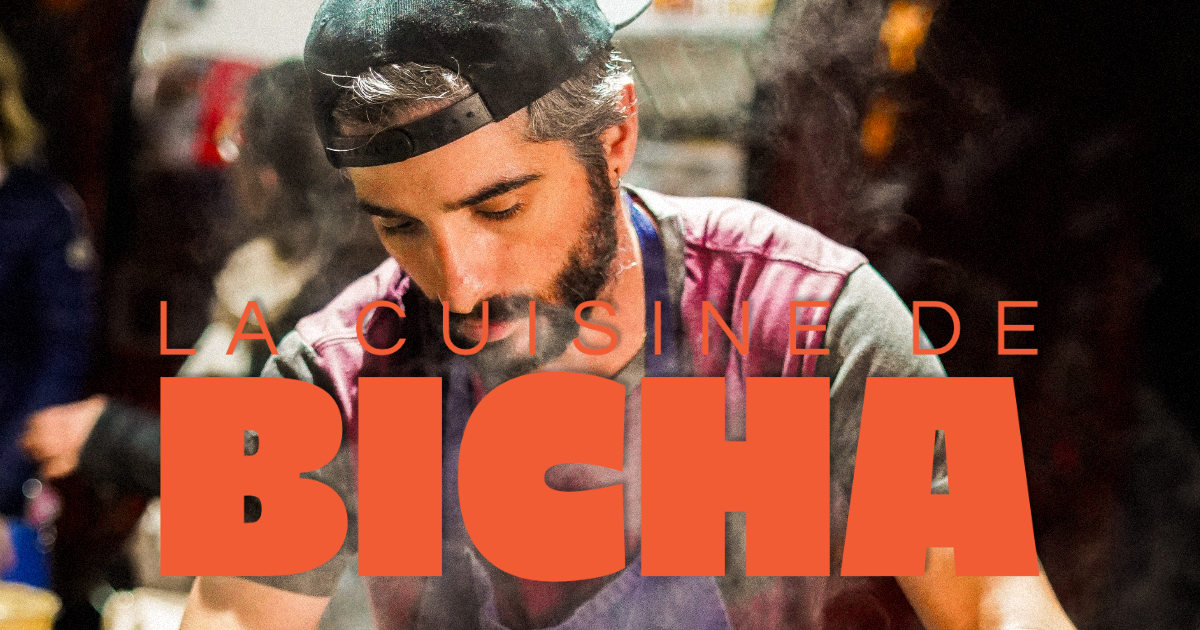
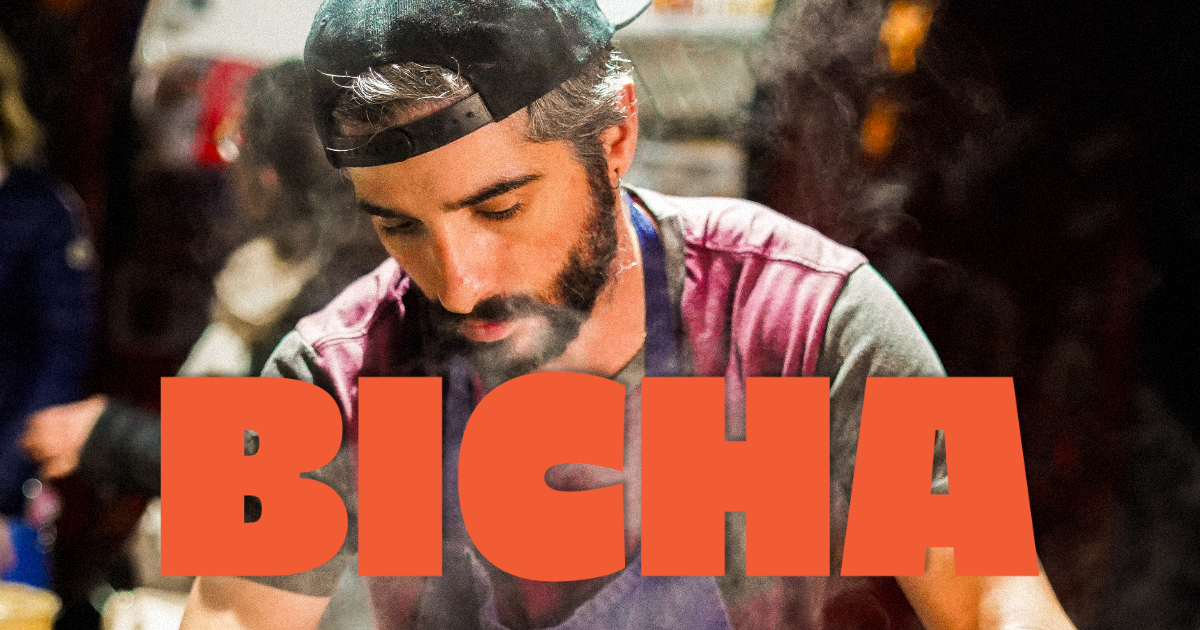
Add thanks page, convert images to WebP, update form config
- Add src/thanks.html confirmation page after form submission
- Update _next field to redirect to /thanks.html
- Update form action to [email redacted]
- Add _template hidden field for formsubmit box layout
- Convert photo1/photo2 to WebP, move slideshow photos to slideshow/ subdir
- Update image paths in index.html accordingly
- Remove Google Fonts preconnect links (fonts are self-hosted)
- New ogimage.png and bicha.png assets

diff --git a/src/styles/thanks.css b/src/styles/thanks.css
@@ -1,0 +1,52 @@
+.thanks-page {
+    min-height: 100svh;
+    display: flex;
+    flex-direction: column;
+    align-items: center;
+    justify-content: center;
+    padding: 48px 24px;
+    text-align: center;
+}
+
+.thanks-logo {
+    width: 120px;
+    margin-bottom: 48px;
+}
+
+.thanks-check {
+    width: 64px;
+    height: 64px;
+    border-radius: 50%;
+    background: var(--color-accent);
+    display: flex;
+    align-items: center;
+    justify-content: center;
+    margin: 0 auto 32px;
+}
+
+.thanks-check svg {
+    stroke: var(--color-white);
+}
+
+.thanks-title {
+    font-family: 'GrandBold', serif;
+    font-size: clamp(2.4rem, 6vw, 4rem);
+    color: var(--color-dark);
+    line-height: 1.1;
+    margin-bottom: 16px;
+    text-transform: none;
+    font-weight: normal;
+    letter-spacing: -0.5px;
+    text-align: center;
+}
+
+.thanks-sub {
+    font-family: 'HankenGrotesk', sans-serif;
+    font-size: clamp(1rem, 2.5vw, 1.15rem);
+    color: var(--color-dark);
+    opacity: 0.7;
+    max-width: 380px;
+    margin: 0 auto 40px;
+    line-height: 1.6;
+    text-align: center;
+}

diff --git a/src/thanks.html b/src/thanks.html
@@ -1,0 +1,31 @@
+<!DOCTYPE html>
+<html lang="fr">
+<head>
+    <meta charset="UTF-8">
+    <meta name="viewport" content="width=device-width, initial-scale=1.0">
+    <title>Merci — La Cuisine de Bicha</title>
+    <meta name="robots" content="noindex, nofollow">
+    <link rel="apple-touch-icon" sizes="180x180" href="media/favicon/apple-touch-icon.png">
+    <link rel="icon" type="image/png" sizes="32x32" href="media/favicon/favicon-32x32.png">
+    <link rel="icon" type="image/png" sizes="16x16" href="media/favicon/favicon-16x16.png">
+    <link rel="manifest" href="media/favicon/site.webmanifest">
+    <link rel="stylesheet" href="style.css">
+    <link rel="stylesheet" href="styles/thanks.css">
+</head>
+<body>
+    <div class="thanks-page">
+        <!-- <img class="thanks-logo" src="media/bicha.png" alt="La Cuisine de Bicha"> -->
+
+        <div class="thanks-check" aria-hidden="true">
+            <svg width="28" height="28" viewBox="0 0 24 24" fill="none" stroke-width="2.5" stroke-linecap="round" stroke-linejoin="round">
+                <polyline points="20 6 9 17 4 12"/>
+            </svg>
+        </div>
+
+        <p class="thanks-title">Votre demande<br>a bien été envoyée.</p>
+        <p class="thanks-sub">Je reviens vers vous rapidement avec un devis personnalisé. À très vite !</p>
+
+        <a class="btn" href="index.html">← Retour au site</a>
+    </div>
+</body>
+</html>

diff --git a/src/index.html b/src/index.html
@@ -11,8 +11,6 @@
     <meta property="og:type" content="website">
     <meta name="robots" content="noai, notdm">
     <meta name="tdm-policy" content="contact=mailto:[email redacted]; terms=https://www.lacuisinedebicha.fr/terms.html">
-    <link rel="preconnect" href="https://fonts.googleapis.com">
-    <link rel="preconnect" href="https://fonts.gstatic.com" crossorigin>
     <link rel="apple-touch-icon" sizes="180x180" href="media/favicon/apple-touch-icon.png">
     <link rel="icon" type="image/png" sizes="32x32" href="media/favicon/favicon-32x32.png">
     <link rel="icon" type="image/png" sizes="16x16" href="media/favicon/favicon-16x16.png">
@@ -71,7 +69,7 @@
         <!-- Block: Histoire -->
         <section class="block">
             <div class="sub_block_img_container reveal reveal--left">
-                <img class="sub_block_img" src="./media/photo1.jpg" alt="Plat cuisiné par La Cuisine de Bicha" loading="lazy">
+                <img class="sub_block_img" src="./media/photo1.webp" alt="Plat cuisiné par La Cuisine de Bicha" loading="lazy">
             </div>
             <div class="sub_block reveal reveal--delay-2">
                 <h2>Bicha, une histoire de cuisine, de famille et de convivialité</h2>
@@ -89,7 +87,7 @@
         <!-- Block: Prestations -->
         <section class="block">
             <div class="sub_block_img_container reveal reveal--right">
-                <img class="sub_block_img" src="./media/photo2.jpg" alt="Cuisine sur place pour événements par Bicha" loading="lazy">
+                <img class="sub_block_img" src="./media/photo2.webp" alt="Cuisine sur place pour événements par Bicha" loading="lazy">
             </div>
             <div class="sub_block reveal reveal--delay-2">
                 <h2>Une cuisine conviviale pour tous vos évènements</h2>
@@ -119,7 +117,7 @@
                 </div>
             </div>
             <div class="menu-embed">
-                <iframe loading="lazy" class="iframe"
+                <iframe loading="lazy" class="iframe" name="menu proposé à jour" 
                     src="https://www.canva.com/design/DAHHAqNiRKQ/JV84XNiVcMZHoF93Mbj5SA/view?embed" allowfullscreen="allowfullscreen" allow="fullscreen">
                 </iframe>
             </div>
@@ -135,12 +133,12 @@
                 </button>
                 <div class="embla">
                     <div class="embla__container">
-                        <div class="embla__slide"><img src="./media/photo1-slideshow.jpg" alt="Réalisation La Cuisine de Bicha" loading="lazy"></div>
-                        <div class="embla__slide"><img src="./media/photo2-slideshow.jpg" alt="Cuisine conviviale pour un événement" loading="lazy"></div>
-                        <div class="embla__slide"><img src="./media/photo3-slideshow.jpg" alt="Préparation maison en grande poêle" loading="lazy"></div>
-                        <div class="embla__slide"><img src="./media/photo4-slideshow.jpg" alt="Service traiteur Bicha sur place" loading="lazy"></div>
-                        <div class="embla__slide"><img src="./media/photo5-slideshow.jpg" alt="Repas convivial pour vos invités" loading="lazy"></div>
-                        <div class="embla__slide"><img src="./media/photo6-slideshow.jpg" alt="Ambiance chaleureuse autour d'un repas" loading="lazy"></div>
+                        <div class="embla__slide"><img src="./media/slideshow/photo1-slideshow.webp" alt="Réalisation La Cuisine de Bicha" loading="lazy"></div>
+                        <div class="embla__slide"><img src="./media/slideshow/photo2-slideshow.webp" alt="Cuisine conviviale pour un événement" loading="lazy"></div>
+                        <div class="embla__slide"><img src="./media/slideshow/photo3-slideshow.webp" alt="Préparation maison en grande poêle" loading="lazy"></div>
+                        <div class="embla__slide"><img src="./media/slideshow/photo4-slideshow.webp" alt="Service traiteur Bicha sur place" loading="lazy"></div>
+                        <div class="embla__slide"><img src="./media/slideshow/photo5-slideshow.webp" alt="Repas convivial pour vos invités" loading="lazy"></div>
+                        <div class="embla__slide"><img src="./media/slideshow/photo6-slideshow.webp" alt="Ambiance chaleureuse autour d'un repas" loading="lazy"></div>
                     </div>
                 </div>
                 <button class="slideshow__btn slideshow__btn--next" aria-label="Photo suivante">
@@ -170,11 +168,12 @@
             </ol>
 
             <div class="form-card">
-                <form id="contact-form" action="https://formsubmit.co/[email redacted]" method="POST">
+                <form id="contact-form" action="https://formsubmit.co/[email redacted]" method="POST">
                     <input type="hidden" name="_subject" value="Nouvelle demande de devis - La Cuisine de Bicha">
                     <input type="hidden" name="_captcha" value="true">
-                    <input type="hidden" name="_next" value="https://www.lacuisinedebicha.fr">
+                    <input type="hidden" name="_next" value="https://www.lacuisinedebicha.fr/thanks.html">
                     <input type="text" name="_honey" style="display:none">
+                    <input type="hidden" name="_template" value="box">
                     <div class="form-row">
                         <div class="form-group">
                             <label for="prenom">Prénom *</label>